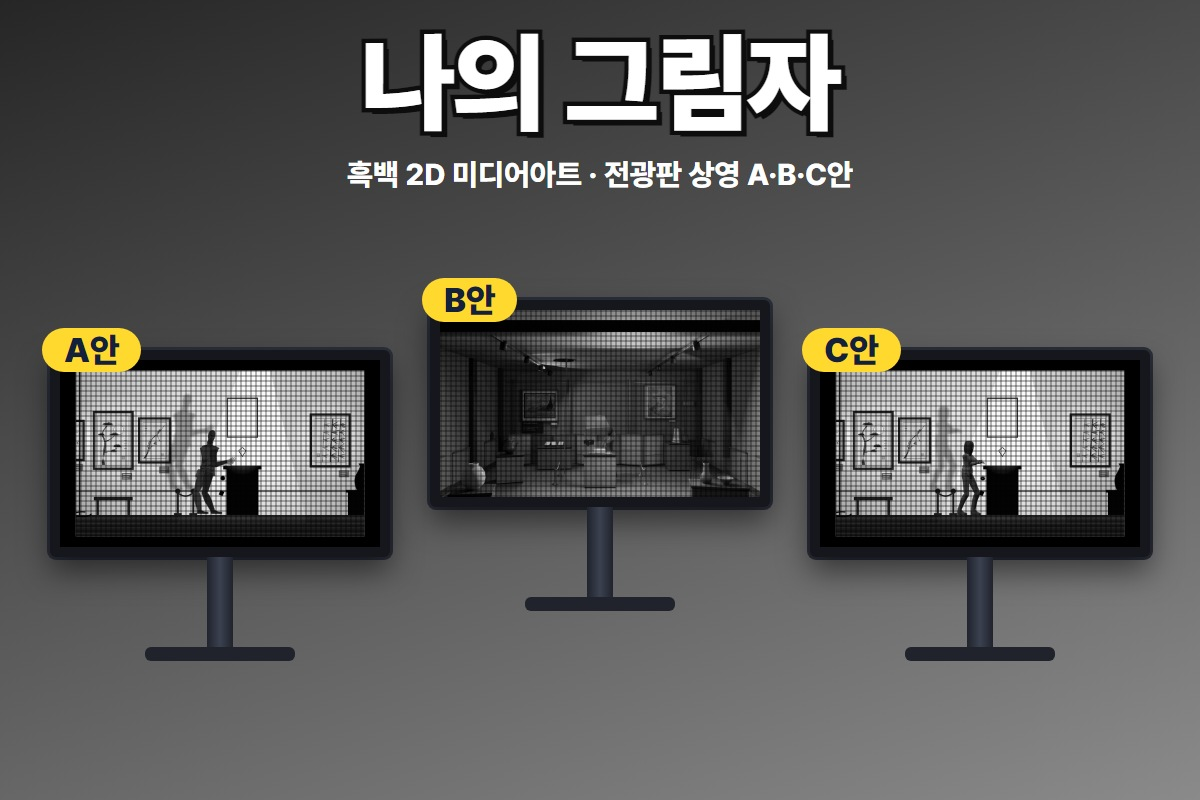
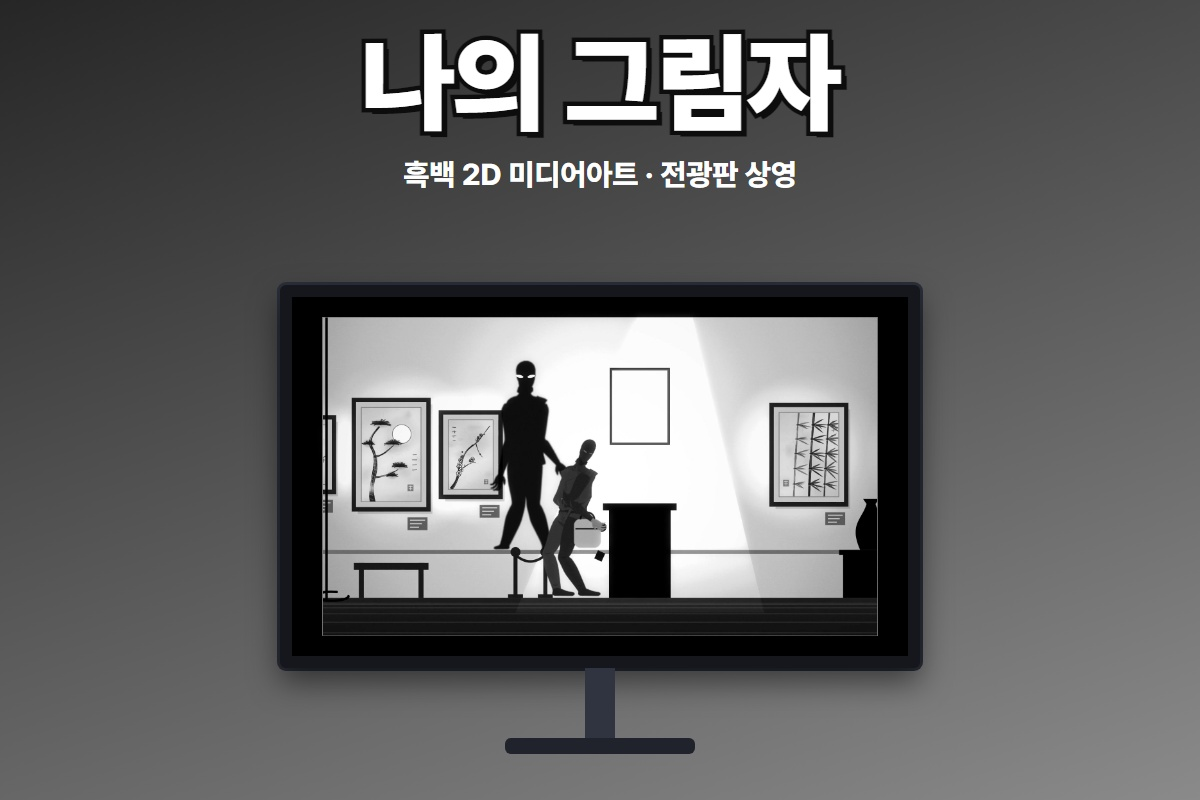
썸네일: 일루지오·나의 그림자를 한 편 기준으로, 탐정게임 A안 표시 겹침과 초점 테두리 정리

diff --git a/work/Spotify/style.css b/work/Spotify/style.css
@@ -1,3 +1,4 @@
 *{box-sizing:border-box}body{margin:0;font-family:Pretendard,"Noto Sans KR",Arial,sans-serif;background:#fff;color:#171b18;font-size:14px}button,input{font:inherit}button,a,input{touch-action:manipulation}button{cursor:pointer}a{color:inherit;text-decoration:none}button:focus-visible,a:focus-visible,input:focus-visible{outline:3px solid #20b65c;outline-offset:4px}header{height:70px;background:#090b09;color:white;display:flex;gap:18px;align-items:center;padding:0 36px}.logo{color:#1ed760;font-size:25px;letter-spacing:-1px;font-weight:800;display:flex;align-items:center;gap:7px}.tag{font-size:10px;letter-spacing:2px;color:#a8b1aa}.back{margin-left:auto;font-size:12px;border:1px solid #4b544e;border-radius:20px;padding:8px 15px}.shell{display:grid;grid-template-columns:205px 1fr;min-height:calc(100vh - 70px);padding-bottom:112px}aside{padding:28px 20px;background:#f6f8f6;border-right:1px solid #e2e8e3}nav{display:grid;gap:8px}nav a{display:flex;gap:9px;font-size:13px;align-items:center;padding:12px 9px;color:#5b655d;font-weight:700;border-radius:7px}nav a.active{background:#e0f7e7;color:#168841}nav span{width:20px;font-size:23px}nav b{margin-left:auto;font-size:11px;border-radius:12px;padding:2px 7px;background:#d1e8d6}.aside-note{margin-top:50px;line-height:1.9;color:#7e8c81;font-size:12px}.plan-link{display:block;margin-top:20px;font-size:12px;color:#428557}main{padding:30px 48px 45px;max-width:1500px;width:100%;min-width:0}.search-form{display:flex;max-width:520px;margin-bottom:20px;border:1.5px solid #2fb35e;border-radius:24px;overflow:hidden;background:white}.search-form input{width:100%;min-width:0;padding:11px 18px;border:0;outline:none;background:transparent}.search-form button{border:0;background:none;color:#148138;padding:8px 18px;font-size:21px}.tabs{display:flex;gap:24px;border-bottom:1px solid #dfe5df;padding-bottom:14px;margin-bottom:30px;color:#687269;font-size:13px}.tabs a.active{color:#149b43;font-weight:800}.eyebrow{color:#1a9e4a;font-size:11px;font-weight:800;letter-spacing:1px;margin-bottom:10px}h1{font-size:31px;margin:0 0 10px;letter-spacing:-1px}h2{font-size:20px;margin:30px 0 18px;letter-spacing:-.4px}p.sub{color:#778278;margin:0 0 26px;line-height:1.7}.cards{display:grid;grid-template-columns:repeat(auto-fill,minmax(155px,1fr));gap:22px;max-width:1000px}.card{min-width:0}.art-btn{position:relative;display:block;padding:0;border:0;background:#edf2ed;border-radius:3px;width:100%;aspect-ratio:1;overflow:hidden}.art-btn img{width:100%;height:100%;object-fit:cover;transition:transform .2s}.art-btn:hover img{transform:scale(1.035)}.art-btn .hover-play{position:absolute;bottom:10px;right:10px;background:#1ed760;color:black;border-radius:50%;width:38px;height:38px;display:grid;place-items:center;box-shadow:0 3px 10px #0005}.card h3{font-size:14px;margin:12px 0 5px}.card p{font-size:12px;color:#7b857e;margin:0 0 8px}.add{background:none;border:1px solid #c6d5c9;border-radius:18px;color:#34884e;padding:5px 11px;font-size:11px}.add.selected{background:#e1f7e7;border-color:#3ab968}.genre-grid{display:grid;grid-template-columns:repeat(4,1fr);gap:14px;max-width:850px}.genre-grid button{border:0;background:var(--c);color:white;text-align:left;padding:20px 15px;font-size:18px;font-weight:800;min-height:96px;border-radius:5px}.genre-grid button small{display:block;font-size:11px;margin-top:18px;opacity:.8}.tracklist{display:grid;gap:0;max-width:1000px}.row{display:grid;grid-template-columns:26px 44px minmax(110px,1fr) minmax(85px,.7fr) 55px 70px;align-items:center;gap:15px;padding:11px 6px;border-bottom:1px solid #e6ebe6}.row img{width:44px;height:44px;object-fit:cover}.row small{display:block;color:#7c887f;font-size:11px;margin-top:4px}.row .title{padding:0;border:0;background:none;text-align:left;font-weight:650;color:inherit}.row .title:hover{text-decoration:underline}.row-number{color:#7b857d}.row .tiny{border:0;background:none;color:#54795e;padding:10px}.banner{background:linear-gradient(120deg,#e4f6ec,#edf2f6);padding:25px 30px;border-radius:5px;margin:25px 0;max-width:1000px;display:flex;align-items:center;gap:24px}.banner img{width:108px;height:108px;object-fit:cover;border-radius:3px}.banner p{margin:6px 0;color:#748079;line-height:1.7}.banner h2{margin:5px 0;font-size:25px}.pill{display:inline-block;border:1px solid #b6d9bf;border-radius:20px;padding:6px 14px;color:#198a42;font-size:11px}.player-view{display:grid;grid-template-columns:minmax(230px,390px) 1fr;gap:48px;align-items:center;margin:30px 0;max-width:1000px}.player-view>img{width:100%;aspect-ratio:1;object-fit:cover;box-shadow:0 12px 40px #24332c22}.player-view h1{font-size:34px}.primary{background:#1ed760;border:0;border-radius:24px;padding:12px 26px;font-weight:750;color:#092e15}.secondary{border:1px solid #b6c5bb;background:transparent;border-radius:24px;padding:11px 23px;color:inherit}.controls{display:flex;gap:10px;margin:24px 0}.notice{background:#f2f7f3;border-left:3px solid #3eac5d;padding:15px 18px;font-size:12px;color:#5b7163;line-height:1.8;max-width:900px}.profile{display:flex;gap:22px;align-items:center;margin:30px 0}.avatar{background:#e7eeea;color:#89a091;font-size:38px;border-radius:50%;width:90px;height:90px;display:grid;place-items:center}.profile-form{display:flex;gap:9px;max-width:450px;margin:25px 0}.profile-form input{border:1px solid #b9cbbf;border-radius:5px;padding:10px;min-width:0;width:100%}.info-grid{display:grid;grid-template-columns:repeat(2,minmax(130px,250px));gap:16px;margin:25px 0}.info-grid div{border:1px solid #e1e9e3;padding:20px;border-radius:6px;line-height:1.8}.info-grid b{display:block}.info-grid small{color:#76817b}.player-bar{position:fixed;bottom:0;left:0;right:0;display:grid;grid-template-columns:1fr 1.3fr 1fr;gap:25px;align-items:center;height:100px;background:#f6f8f6;border-top:1px solid #dce3dc;padding:13px 27px;z-index:5}.now-cover{display:flex;gap:12px;align-items:center;text-align:left;padding:0;border:0;background:none;color:inherit;min-width:0}.now-cover img{width:60px;height:60px;object-fit:cover}.now-cover b{display:block;font-size:13px}.now-cover small{display:block;color:#738078;font-size:10px;margin-top:6px}.transport-buttons{display:flex;justify-content:center;gap:22px;align-items:center}.transport button{border:0;background:none;color:inherit;padding:0;font-size:14px}.transport .play{background:#17261b;color:white;width:32px;height:32px;border-radius:50%;font-size:14px}.timeline{display:flex;gap:10px;align-items:center;margin-top:10px;font-size:10px;color:#7a877f}input[type=range]{accent-color:#20b45a;height:4px;cursor:pointer;width:100%}.volume{margin-left:auto;max-width:210px;display:grid;grid-template-columns:auto 1fr;gap:10px;font-size:10px;color:#718076}.volume small{grid-column:1/-1;font-size:10px}#toast{position:fixed;left:50%;bottom:118px;transform:translateX(-50%);background:#17271d;color:white;padding:12px 22px;border-radius:6px;opacity:0;pointer-events:none;transition:opacity .15s;z-index:9;font-size:13px}#toast.show{opacity:1}.empty{padding:40px 0;color:#76857b;line-height:1.8}.screen-only-demo{font-size:11px;color:#79857b}.back-profile{margin-top:10px}.back-profile a{color:#168b40}.album-name{font-size:12px;color:#708077}.row .add{font-size:10px;padding:6px}.row .selected{color:#168c3a}
 @media(max-width:900px){main{padding:28px 24px}.shell{grid-template-columns:175px 1fr}.tag{display:none}.cards{grid-template-columns:repeat(3,1fr);gap:16px}.genre-grid{grid-template-columns:repeat(2,1fr)}.volume{display:none}.player-bar{grid-template-columns:1fr 1.2fr}.row{grid-template-columns:18px 40px minmax(90px,1fr) 60px}.row .album-name,.row .length{display:none}.player-view{gap:25px;grid-template-columns:45% 1fr}}
 @media(max-width:600px){body{background:#141514;color:#f3f6f3}header{height:60px;padding:0 18px}.back{font-size:10px;padding:7px 10px}.shell{display:block;padding-bottom:160px;min-height:100vh}aside{position:fixed;bottom:0;left:0;right:0;padding:0;background:#171b18;border:0;z-index:8;height:57px}nav{display:grid;grid-template-columns:repeat(5,1fr);gap:0;height:57px}nav a{padding:6px 0;gap:0;flex-direction:column;font-size:9px;border-radius:0;color:#91a096;justify-content:center}nav span{font-size:21px;text-align:center;width:auto;height:24px}nav a.active{background:none;color:#1ed760}nav b,.aside-note,.plan-link{display:none}main{padding:23px 18px 20px}.search-form{background:#fff;margin-bottom:18px}.search-form input{color:#111}.tabs{gap:18px;font-size:11px;border-color:#344037;margin-bottom:25px;overflow:auto;white-space:nowrap}.tabs a.active{color:#1ed760}h1{font-size:26px}h2{font-size:19px}.cards{grid-template-columns:repeat(2,1fr);gap:20px 15px}.card h3{font-size:13px}.card p{font-size:11px}.add{color:#a0cfad;border-color:#47564b}.add.selected{background:#213c2a;color:#72d494}.banner{padding:17px 14px;background:#203226;gap:14px}.banner img{width:78px;height:78px}.banner h2{font-size:20px}.banner p{font-size:11px;color:#a0b2a6}.row{gap:10px;padding:11px 0;border-color:#2b362e;grid-template-columns:16px 40px minmax(80px,1fr) 54px}.row .tiny{padding:6px}.row .add{padding:5px;font-size:9px}.notice{background:#1d2a21;color:#a0b8a8;padding:13px;font-size:11px}.player-view{display:block;margin:20px auto;max-width:360px}.player-view>img{width:100%;margin-bottom:26px}.player-view h1{font-size:28px}.player-bar{bottom:57px;height:90px;background:#202721;border-color:#344539;grid-template-columns:1fr 85px;padding:10px 16px;gap:12px}.now-cover img{width:45px;height:45px}.now-cover b{font-size:11px}.now-cover small{font-size:9px}.transport-buttons{gap:13px}.transport-buttons button{font-size:11px}.transport .play{color:#16201a;background:#e3f2e7;width:30px;height:30px}.timeline{position:absolute;left:16px;right:16px;bottom:10px;margin:0;font-size:8px}.now-cover{margin-bottom:15px}.transport-buttons{margin-bottom:15px}.player-bar input{height:2px}.info-grid{gap:10px}.info-grid div{border-color:#344237;padding:16px}.avatar{background:#273b2e}.profile-form input{background:#232e26;color:white;border-color:#536557}.secondary{border-color:#587360}.pill{color:#8aca9c;border-color:#507c5a}.profile-form .primary{padding:10px 15px}#toast{bottom:160px;max-width:90%;width:max-content}.logo{font-size:22px}.screen-only-demo{font-size:10px}.genre-grid button{font-size:17px;padding:18px 14px}}
+#main:focus,#main:focus-visible{outline:none}

diff --git a/work/Aqua/index.html b/work/Aqua/index.html
@@ -1,5 +1,5 @@
 <!doctype html><html lang="ko"><meta charset="utf-8"><meta name="viewport" content="width=device-width,initial-scale=1"><base href="../../"><link rel="icon" type="image/png" href="assets/favicon.png"><title>아쿠아 · 책 감상</title><style>
-@font-face{font-family:P;src:url('assets/PretendardVariable.woff2')}*{box-sizing:border-box}body{margin:0;background:#152a38;color:#eefafa;font:16px/1.55 P,system-ui,sans-serif}dialog{position:static;border:0;background:transparent;color:inherit;width:min(100%,870px);max-width:100%;padding:14px;margin:0 auto}header,.work-links{display:flex;align-items:center;gap:8px;flex-wrap:wrap}header{justify-content:space-between}h1{font-size:clamp(22px,4vw,32px);margin:0}button{font:inherit;background:#203f4b;color:white;border:1px solid #91bac2;border-radius:7px;padding:.6rem 1rem;cursor:pointer}button:focus-visible{outline:3px solid #9de9ed}.aqua-view{background:radial-gradient(ellipse at bottom,#4c717d,#0c2738);border-radius:9px;margin:12px 0}.aqua-view canvas,.aqua-view img{display:block;width:100%;max-height:65vh;object-fit:contain;touch-action:none}.aqua-view figure{margin:0}.work-links{justify-content:center}p{margin:.6rem 0}</style>
+@font-face{font-family:P;src:url('assets/PretendardVariable.woff2')}*{box-sizing:border-box}body{margin:0;background:#152a38;color:#eefafa;font:16px/1.55 P,system-ui,sans-serif}dialog{position:static;border:0;background:transparent;color:inherit;width:min(100%,870px);max-width:100%;padding:14px;margin:0 auto}dialog:focus,dialog:focus-visible{outline:none}header,.work-links{display:flex;align-items:center;gap:8px;flex-wrap:wrap}header{justify-content:space-between}h1{font-size:clamp(22px,4vw,32px);margin:0}button{font:inherit;background:#203f4b;color:white;border:1px solid #91bac2;border-radius:7px;padding:.6rem 1rem;cursor:pointer}button:focus-visible{outline:3px solid #9de9ed}.aqua-view{background:radial-gradient(ellipse at bottom,#4c717d,#0c2738);border-radius:9px;margin:12px 0}.aqua-view canvas,.aqua-view img{display:block;width:100%;max-height:65vh;object-fit:contain;touch-action:none}.aqua-view figure{margin:0}.work-links{justify-content:center}p{margin:.6rem 0}</style>
 <dialog open><header>
 <meta name="robots" content="noindex, nofollow, noarchive"><h1>아쿠아 · 책 감상</h1><button id="leave">작품으로 돌아가기</button></header><p>화면을 끌어 책을 드는 손과 옷자락을 다른 각도에서 살펴보세요.</p><div id="model"></div></dialog>
 <script src="vendor/three-bundle.js"></script><script src="gallery.js"></script><script>

diff --git a/work/AquaMale/index.html b/work/AquaMale/index.html
@@ -1,5 +1,5 @@
 <!doctype html><html lang="ko"><meta charset="utf-8"><meta name="viewport" content="width=device-width,initial-scale=1"><base href="../../"><link rel="icon" type="image/png" href="assets/favicon.png"><title>아쿠아 · 3D 모델</title><style>
-@font-face{font-family:P;src:url('assets/PretendardVariable.woff2')}*{box-sizing:border-box}body{margin:0;background:#152a38;color:#eefafa;font:16px/1.55 P,system-ui,sans-serif}dialog{position:static;border:0;background:transparent;color:inherit;width:min(100%,870px);max-width:100%;padding:14px;margin:0 auto}header,.work-links{display:flex;align-items:center;gap:8px;flex-wrap:wrap}header{justify-content:space-between}h1{font-size:clamp(22px,4vw,32px);margin:0}button{font:inherit;background:#203f4b;color:white;border:1px solid #91bac2;border-radius:7px;padding:.6rem 1rem;cursor:pointer}button:focus-visible{outline:3px solid #9de9ed}.aqua-view{background:radial-gradient(ellipse at bottom,#4c717d,#0c2738);border-radius:9px;margin:12px 0}.aqua-view canvas,.aqua-view img{display:block;width:100%;max-height:65vh;object-fit:contain;touch-action:none}.aqua-view figure{margin:0}.work-links{justify-content:center}p{margin:.6rem 0}</style>
+@font-face{font-family:P;src:url('assets/PretendardVariable.woff2')}*{box-sizing:border-box}body{margin:0;background:#152a38;color:#eefafa;font:16px/1.55 P,system-ui,sans-serif}dialog{position:static;border:0;background:transparent;color:inherit;width:min(100%,870px);max-width:100%;padding:14px;margin:0 auto}dialog:focus,dialog:focus-visible{outline:none}header,.work-links{display:flex;align-items:center;gap:8px;flex-wrap:wrap}header{justify-content:space-between}h1{font-size:clamp(22px,4vw,32px);margin:0}button{font:inherit;background:#203f4b;color:white;border:1px solid #91bac2;border-radius:7px;padding:.6rem 1rem;cursor:pointer}button:focus-visible{outline:3px solid #9de9ed}.aqua-view{background:radial-gradient(ellipse at bottom,#4c717d,#0c2738);border-radius:9px;margin:12px 0}.aqua-view canvas,.aqua-view img{display:block;width:100%;max-height:65vh;object-fit:contain;touch-action:none}.aqua-view figure{margin:0}.work-links{justify-content:center}p{margin:.6rem 0}</style>
 <dialog open><header>
 <meta name="robots" content="noindex, nofollow, noarchive"><h1>아쿠아 · 3D 모델</h1><button id="leave">작품으로 돌아가기</button></header><p>화면을 끌어 앞, 옆, 뒤를 돌려 보세요.</p><div id="model"></div></dialog>
 <script src="vendor/three-bundle.js"></script><script src="gallery.js"></script><script>

diff --git a/work/Detective-A/js/field.js b/work/Detective-A/js/field.js
@@ -546,7 +546,7 @@ window.Field = (function () {
   function untilBig() { return (3 - (B.foeN + 1) % 3) % 3; }   // 상대의 큰 반응까지 남은 라운드. 0이면 이번 라운드 끝에 온다
   function drawTurn() {
     const u = B.ui; if (!u) return;
-    u.bar.style.width = B.stab + '%'; u.pct.textContent = '안정화 ' + Math.floor(B.stab) + '%'; u.box.classList.toggle('dim', B.hide); u.box.classList.toggle('brk', B.broken);
+    u.rnd.textContent = B.round; u.bar.style.width = B.stab + '%'; u.pct.textContent = '안정화 ' + Math.floor(B.stab) + '%'; u.box.classList.toggle('dim', B.hide); u.box.classList.toggle('brk', B.broken);
     u.tg.forEach((t, i) => { t.className = i < B.tough ? 'on' : ''; });
     u.pips.forEach((p, i) => { p.className = i < B.pts ? 'on' : ''; }); u.sc.querySelector('b').textContent = B.score; u.sc.querySelector('em').textContent = B.score >= 6 ? '필살기 최대' : B.score >= 3 ? '필살기 커짐' : ''; u.sc.classList.toggle('hot', B.score >= 3);
     B.team.forEach((m, i) => {
@@ -721,7 +721,7 @@ window.Field = (function () {
     }
   }
   function turnTick(d) {
-    if (B && B.ui && foe) { const p = S.project(foe.x, (foe.float || 0) + 2.55, foe.z); B.ui.box.style.left = p.x + 'px'; B.ui.box.style.top = p.y + 'px'; }   // 상대 정보 판은 상대 머리 위를 따라간다
+    if (B && B.ui && foe) { const p = S.project(foe.x, (foe.float || 0) + 2.55, foe.z); const bx = B.ui.box; bx.style.left = p.x + 'px'; bx.style.top = Math.max(p.y, (bx.offsetHeight || 110) + 104) + 'px'; }   // 상대 정보 판은 상대 머리 위를 따라간다
     if (!B || B.over) { FX.update(speed > 1 ? d * .7 : d); return; }
     B.clock += d; B.t += d; FX.update(speed > 1 && !B.ultBusy ? d * .7 : d);
     for (let n = 0; n < 20; n++) {

diff --git a/work/Detective-A/css/field.css b/work/Detective-A/css/field.css
@@ -524,3 +524,5 @@ button.pcard:hover { border-color: #f3e7c4; }
 }
 .sus[aria-pressed="true"] .sus-picked { display: block; }
 .sus:focus-visible { outline: 4px solid #fff; outline-offset: 4px; box-shadow: 0 0 0 12px var(--nv); }
+/* 숨은 동안 꼬리표가 '안정화 N%' 글자와 겹치지 않게 줄을 나눈다 */
+.fpan.dim .fn { flex-wrap: wrap; row-gap: 4px; padding-right: 150px; }
